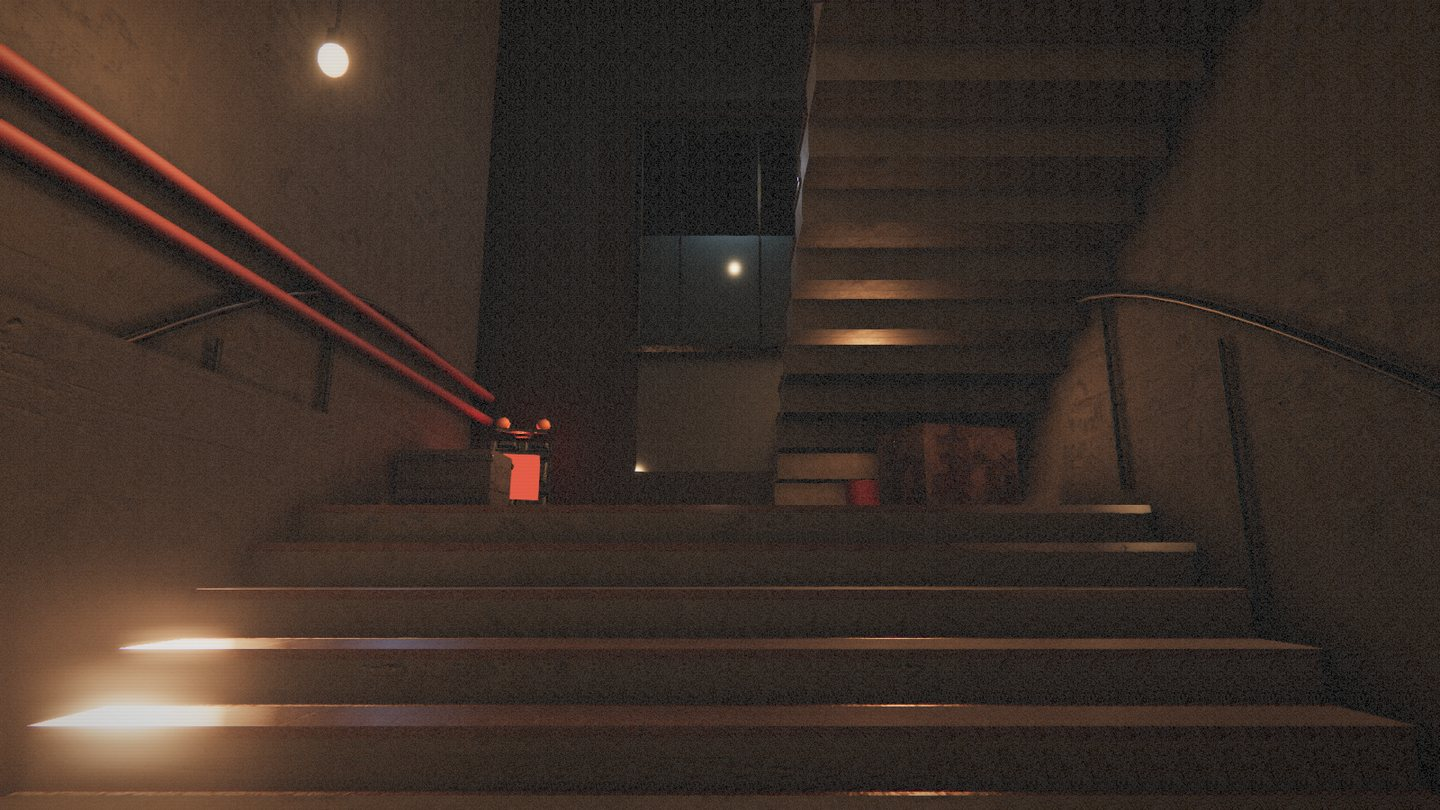
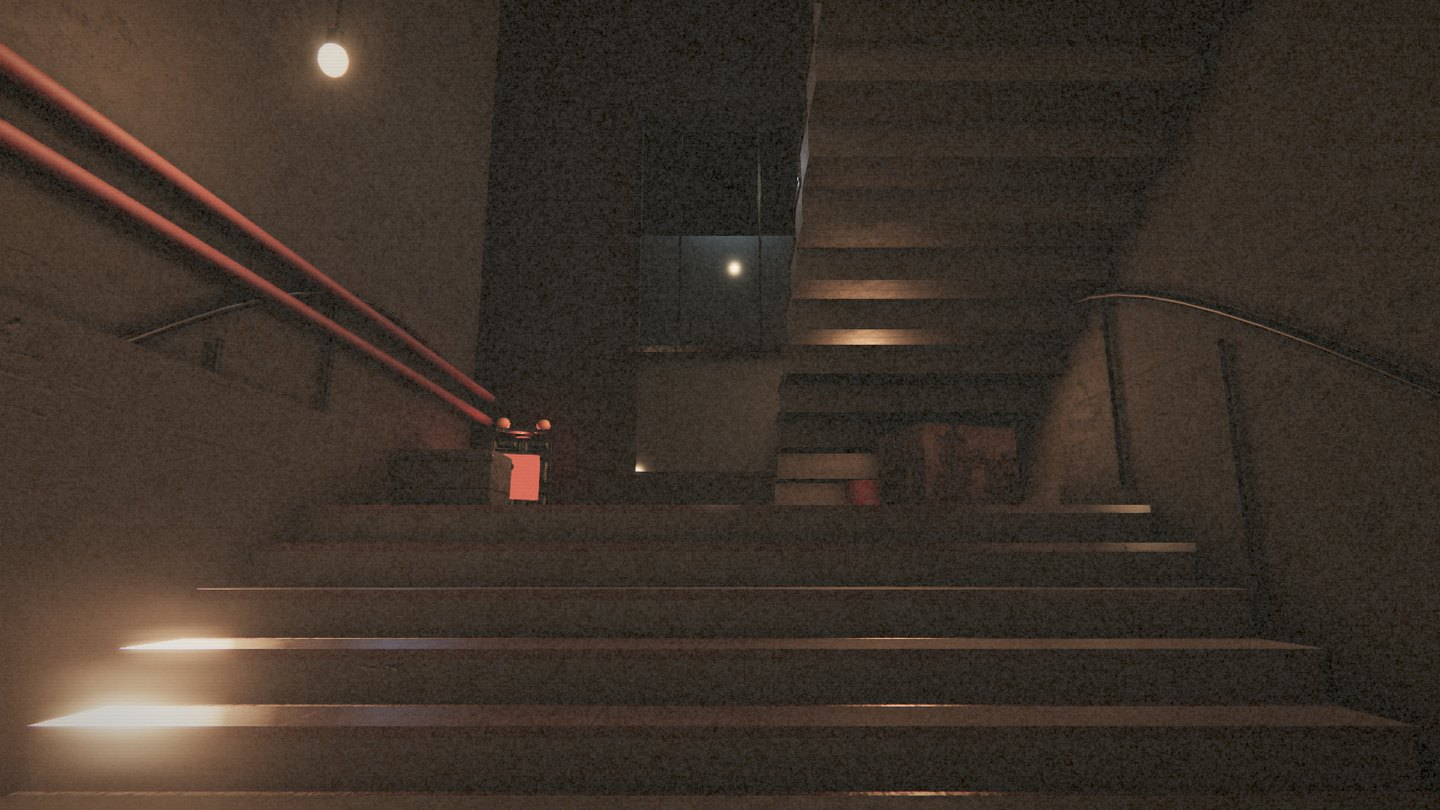
README 截图按新观感重拍（7 张），药行/浴室换机位

diff --git a/shots/mk_readme3.py b/shots/mk_readme3.py
@@ -1,0 +1,28 @@
+
+import sys, os, shutil
+from PIL import Image, ImageDraw
+d = sys.argv[1]
+src = os.path.join(d, "shots", "readme2")
+shutil.copy(os.path.join(d,"shots","cand_shop_a.png"), os.path.join(src,"03_shop_in.png"))
+shutil.copy(os.path.join(d,"shots","cand_bath_b.png"), os.path.join(src,"07_bath.png"))
+dst = os.path.join(d, "docs", "screens")
+pairs = [("00_menu","menu"),("02_shopfront","shopfront"),("03_shop_in","shop_interior"),
+         ("04_stairs","stairs"),("06_altar","altar"),("07_bath","bath"),("08_pv","trailer")]
+total = 0
+for a, b in pairs:
+    im = Image.open(os.path.join(src, a + ".png")).convert("RGB")
+    w, h = im.size
+    im = im.resize((1440, round(h * 1440 / w)), Image.LANCZOS)
+    out = os.path.join(dst, b + ".jpg")
+    im.save(out, "JPEG", quality=86, optimize=True, progressive=True)
+    total += os.path.getsize(out)
+print("total %.2f MB" % (total/1048576))
+th=[]
+for a,_ in pairs:
+    im = Image.open(os.path.join(src, a + ".png")).convert("RGB").resize((640,360), Image.LANCZOS)
+    th.append(im)
+out = Image.new("RGB",(640*2+8, 360*4+12),(12,12,12))
+for i,t in enumerate(th):
+    out.paste(t, ((i%2)*648, (i//2)*366))
+out.save(os.path.join(d,"shots","readme2_grid.jpg"), quality=88)
+print("ok")

diff --git a/shots/mk_readme2.py b/shots/mk_readme2.py
@@ -1,0 +1,29 @@
+
+import sys, os
+from PIL import Image, ImageDraw
+d = sys.argv[1]
+src = os.path.join(d, "shots", "readme2")
+dst = os.path.join(d, "docs", "screens")
+pairs = [("00_menu","menu"),("02_shopfront","shopfront"),("03_shop_in","shop_interior"),
+         ("04_stairs","stairs"),("06_altar","altar"),("07_bath","bath"),("08_pv","trailer")]
+total = 0
+for a, b in pairs:
+    im = Image.open(os.path.join(src, a + ".png")).convert("RGB")
+    w, h = im.size
+    im = im.resize((1440, round(h * 1440 / w)), Image.LANCZOS)
+    out = os.path.join(dst, b + ".jpg")
+    im.save(out, "JPEG", quality=86, optimize=True, progressive=True)
+    total += os.path.getsize(out)
+    print("%-15s %6.1f KB" % (b, os.path.getsize(out)/1024))
+print("total %.2f MB" % (total/1048576))
+# 审阅用拼图
+thumbs = []
+for a,_ in pairs:
+    im = Image.open(os.path.join(src, a + ".png")).convert("RGB")
+    im = im.resize((640, 360), Image.LANCZOS)
+    thumbs.append(im)
+out = Image.new("RGB", (640*2+8, 360*4+12), (12,12,12))
+for i,t in enumerate(thumbs[:7]):
+    out.paste(t, ((i%2)*(648), (i//2)*(366)))
+out.save(os.path.join(d,"shots","readme2_grid.jpg"), quality=88)
+print("grid ok")

diff --git a/PROGRESS.md b/PROGRESS.md
@@ -170,3 +170,9 @@ node tools/capture.mjs tools/turn_rooms.json  # 转身帧时间，over33 应为 
 - 默认 `uGrain` 0.018 → **0.0207**（×1.15）
 - 实测：颗粒高频贡献 0.680 → 0.810（比值 1.19，度量含场景纹理噪声，uniform 本身是精确 ×1.15）
 - 对照图：`shots/grain_15more.png`（100% 裁切，0.018 vs 0.0207）
+
+### 8.7 README 截图重拍（2026-11-04 晚，**未 push**）
+- 按当前观感（grain 0.0207 / aged 0.6）重拍 7 张：menu / shopfront / shop_interior / stairs / altar / bath / trailer
+- 药行机位改为柜台斜侧（2.4,1.62,4.6 → -1.4,1.35,0.9）；浴室改为镜前侧机位（1.95,5.2,4.35 → 2.9,5.0,3.32）
+- 1440×810 JPEG q86，合计 1.36 MB；`docs/screens/` 原文件原地替换
+- 审阅拼图：`shots/readme2_grid.jpg`
